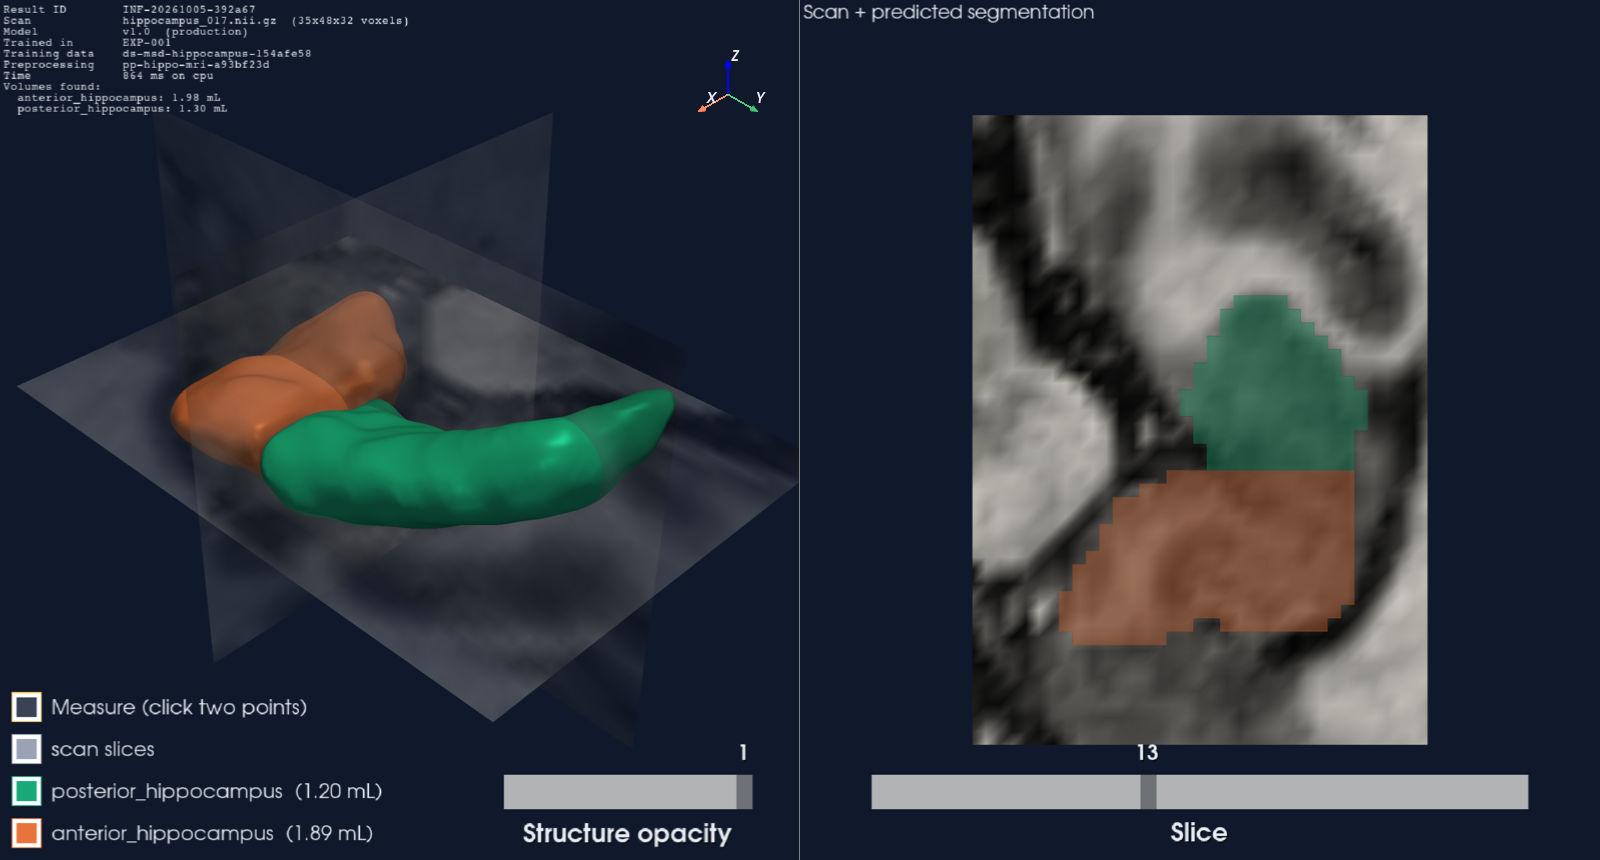
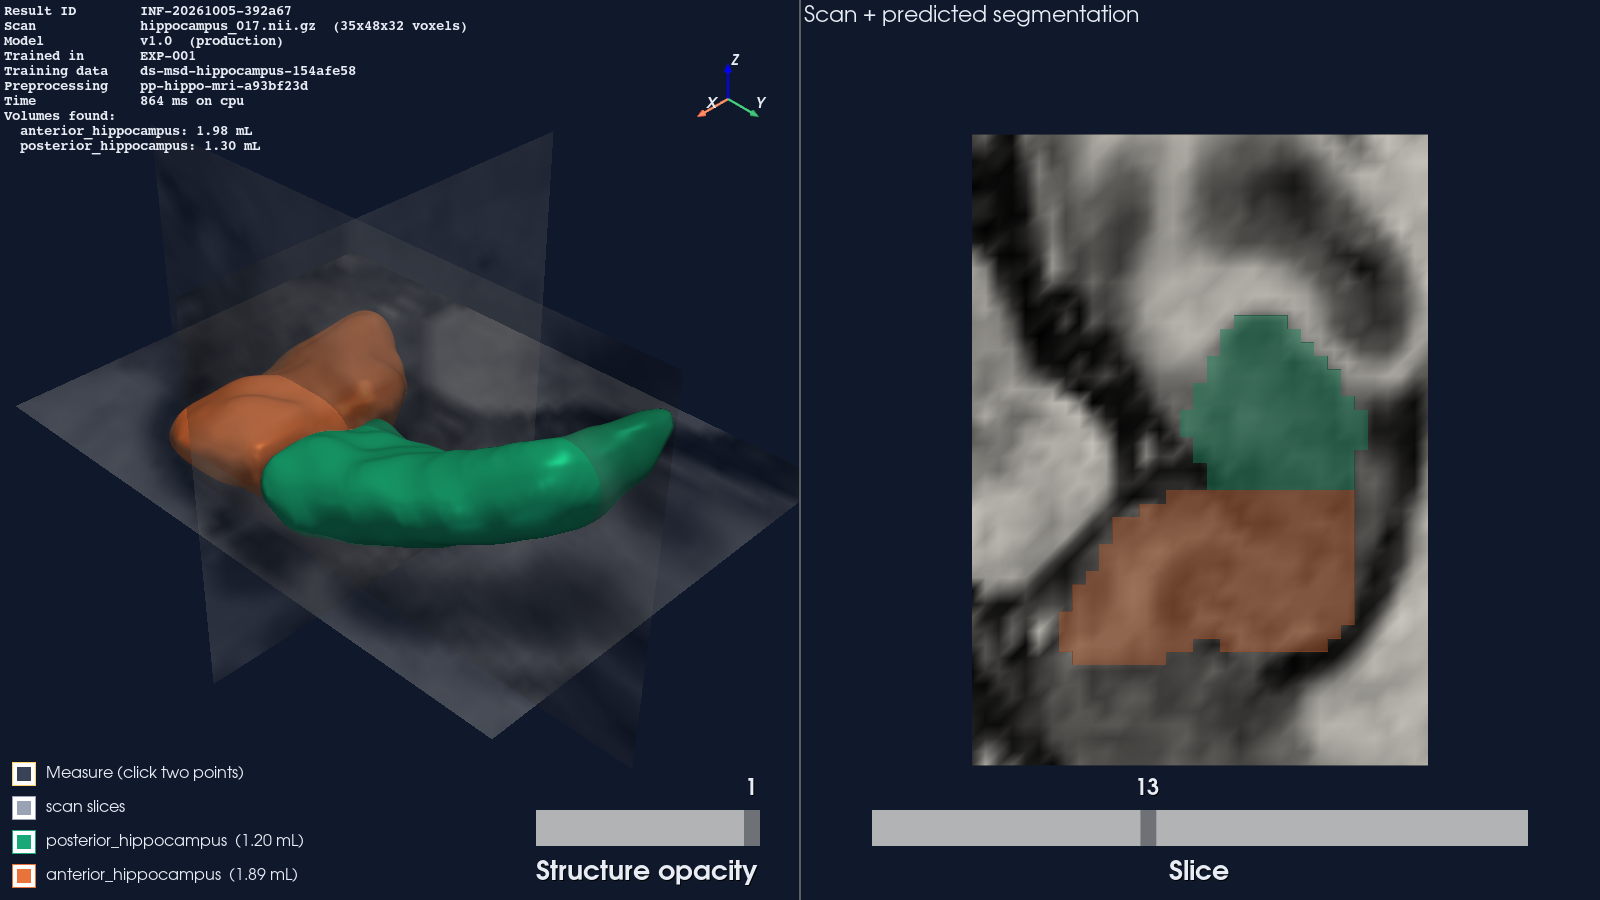
Viewer: sharp text on scaled Windows displays, readable labels, no overlap

diff --git a/src/visualization/viewer.py b/src/visualization/viewer.py
@@ -15,6 +15,8 @@ through the slices.
 from __future__ import annotations
 
 import argparse
+import ctypes
+import sys
 from pathlib import Path
 
 import numpy as np
@@ -29,22 +31,42 @@ BACKGROUND = "#10182b"
 TEXT = "#e8ecf4"
 
 
+def _screen_setup() -> tuple[float, tuple[int, int]]:
+    """Return (display scale, window size in pixels).
+
+    On Windows with display scaling (e.g. 150%), VTK windows are stretched by the
+    system and look blurry. Asking for real pixels fixes that; fonts and buttons
+    are then multiplied by the scale so they keep their normal size.
+    """
+    if sys.platform != "win32":
+        return 1.0, (1600, 900)
+    try:
+        ctypes.windll.shcore.SetProcessDpiAwareness(2)
+        scale = ctypes.windll.user32.GetDpiForSystem() / 96
+        width = ctypes.windll.user32.GetSystemMetrics(0)
+        height = ctypes.windll.user32.GetSystemMetrics(1)
+    except (AttributeError, OSError):
+        return 1.0, (1600, 900)
+    return scale, (int(width * 0.9), int(height * 0.85))
+
+
 def build_plotter(scene: CaseScene, off_screen: bool = False) -> pv.Plotter:
+    scale, window_size = (1.0, (1600, 900)) if off_screen else _screen_setup()
     plotter = pv.Plotter(
         shape=(1, 2),
-        window_size=(1600, 860),
+        window_size=list(window_size),
         off_screen=off_screen,
         title=f"3D Medical Imaging ML Pipeline - {scene.inference_id}",
     )
     plotter.set_background(BACKGROUND)
-    plotter.enable_anti_aliasing("ssaa")  # smooth edges instead of jagged pixels
-    _add_3d_view(plotter, scene)
-    _add_slice_view(plotter, scene)
+    plotter.enable_anti_aliasing("msaa")  # smooth 3D edges, keeps text sharp
+    _add_3d_view(plotter, scene, scale)
+    _add_slice_view(plotter, scene, scale)
     plotter.subplot(0, 0)
     return plotter
 
 
-def _add_3d_view(plotter: pv.Plotter, scene: CaseScene) -> None:
+def _add_3d_view(plotter: pv.Plotter, scene: CaseScene, scale: float) -> None:
     plotter.subplot(0, 0)
     actors = {
         name: plotter.add_mesh(
@@ -71,19 +93,24 @@ def _add_3d_view(plotter: pv.Plotter, scene: CaseScene) -> None:
     # One checkbox per structure, plus one for the scan slices.
     toggles = [(name, actors[name], scene.colors[name]) for name in scene.meshes]
     toggles.append(("scan slices", slice_actor, "#9aa3b5"))
+    box, row_height, margin = int(24 * scale), int(34 * scale), int(12 * scale)
+    label_x = margin + box + int(10 * scale)
+    font = int(8 * scale)
     for row, (label, actor, color) in enumerate(toggles):
-        y = 12 + row * 42
+        y = margin + row * row_height
         plotter.add_checkbox_button_widget(
             lambda visible, a=actor: a.SetVisibility(visible),
             value=True,
-            position=(12, y),
-            size=30,
+            position=(margin, y),
+            size=box,
             color_on=color,
             color_off="#3a4255",
         )
         info = scene.mesh_info.get(label)
         suffix = f"  ({info['mesh_volume_ml']:.2f} mL)" if info else ""
-        plotter.add_text(f"{label}{suffix}", position=(52, y + 4), font_size=10, color=TEXT)
+        plotter.add_text(
+            f"{label}{suffix}", position=(label_x, y + box // 6), font_size=font, color=TEXT
+        )
 
     def set_opacity(value: float) -> None:
         for actor in actors.values():
@@ -94,35 +121,38 @@ def _add_3d_view(plotter: pv.Plotter, scene: CaseScene) -> None:
         rng=[0.1, 1.0],
         value=1.0,
         title="Structure opacity",
-        pointa=(0.62, 0.08),
-        pointb=(0.95, 0.08),
+        pointa=(0.66, 0.08),
+        pointb=(0.96, 0.08),
         style="modern",
         color=TEXT,
     )
 
-    distance_text = plotter.add_text("", position="lower_right", font_size=10, color="#ffd166")
+    distance_text = plotter.add_text("", position="lower_right", font_size=font, color="#ffd166")
     ruler = plotter.add_measurement_widget(
         lambda a, b, d: distance_text.SetText(3, f"distance: {d:.1f} mm"), color="#ffd166"
     )
     ruler.Off()
-    y = 12 + len(toggles) * 42
+    y = margin + len(toggles) * row_height
     plotter.add_checkbox_button_widget(
         lambda on: ruler.On() if on else ruler.Off(),
         value=False,
-        position=(12, y),
-        size=30,
+        position=(margin, y),
+        size=box,
         color_on="#ffd166",
         color_off="#3a4255",
     )
-    plotter.add_text("Measure (click two points)", position=(52, y + 4), font_size=10, color=TEXT)
-
     plotter.add_text(
+        "Measure (click two points)", position=(label_x, y + box // 6), font_size=font, color=TEXT
+    )
+
+    info_text = plotter.add_text(
         "\n".join(scene.summary_lines()),
         position="upper_left",
-        font_size=9,
+        font_size=int(10 * scale),
         color=TEXT,
         font="courier",
     )
+    info_text.GetTextProperty().SetBold(True)  # thin monospace text is hard to read
     plotter.add_axes(color=TEXT, viewport=(0.82, 0.78, 1.0, 1.0))
     plotter.camera_position = "iso"
     if scene.meshes:  # frame the anatomy, not the whole scan
@@ -132,7 +162,7 @@ def _add_3d_view(plotter: pv.Plotter, scene: CaseScene) -> None:
         plotter.reset_camera()
 
 
-def _add_slice_view(plotter: pv.Plotter, scene: CaseScene) -> None:
+def _add_slice_view(plotter: pv.Plotter, scene: CaseScene, scale: float) -> None:
     plotter.subplot(0, 1)
     nx, ny, nz = scene.image.dimensions
     colors = [scene.colors[name] for name in scene.meshes] or ["#e8743b"]
@@ -169,7 +199,10 @@ def _add_slice_view(plotter: pv.Plotter, scene: CaseScene) -> None:
         color=TEXT,
     )
     plotter.add_text(
-        "Scan + predicted segmentation", position="upper_left", font_size=11, color=TEXT
+        "Scan + predicted segmentation",
+        position="upper_left",
+        font_size=int(12 * scale),
+        color=TEXT,
     )
     plotter.view_xy()
     plotter.reset_camera()
